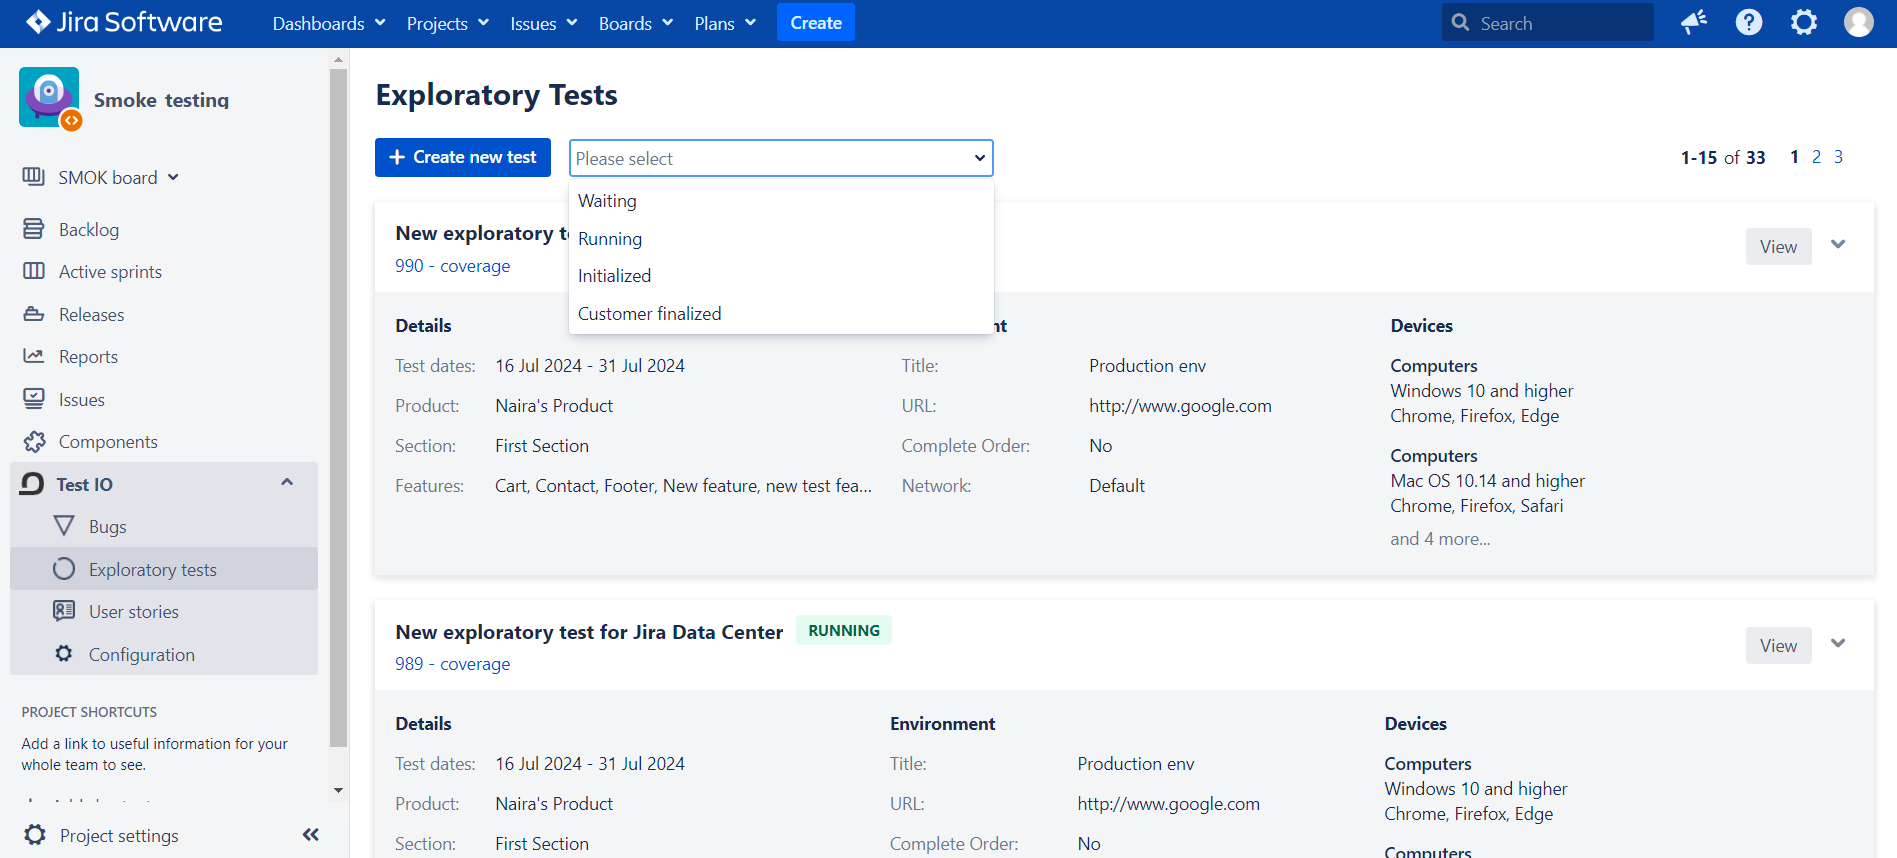
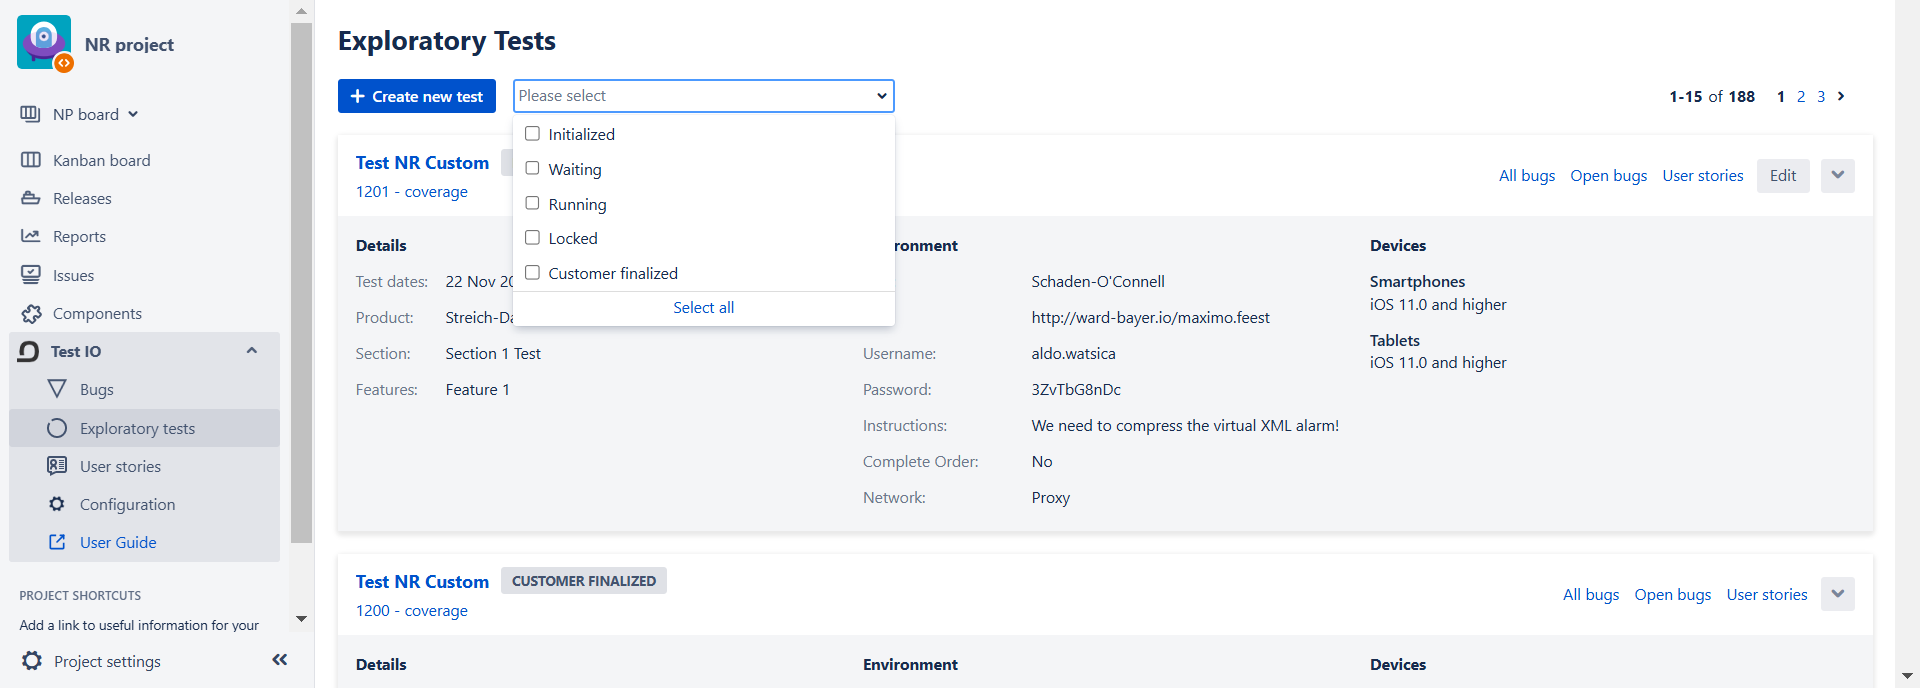
Changes on Test Bug Types page

diff --git a/src/pages/docs/jira_server/test_bug_types.md b/src/pages/docs/jira_server/test_bug_types.md
@@ -5,7 +5,7 @@ description: Learn about Test IO exploratory tests and bug types.
 
 ## Exploratory Tests in Jira Plugin
 
-Test IO exploratory tests, whether created on the Jira platform or the Test IO platform, can be seamlessly viewed through the Jira Data Center (Server) Plugin. This integration allows users to access and monitor tests with various statuses, including **Waiting, Running, Initialized** and **Customer Finalized**, directly from Jira.
+Test IO exploratory tests, whether created on the Jira platform or the Test IO platform, can be seamlessly viewed through the Jira Data Center (Server) Plugin. This integration allows users to access and monitor tests with various statuses, including **Waiting, Running, Initialized, Locked** and **Customer Finalized**, directly from Jira.
 
 ### Comprehensive Test Details
 
@@ -33,9 +33,17 @@ This detailed view enables efficient tracking of the progress and status of expl
   - Click on the Test Cycle ID under the Test Title to navigate to the Test IO Platform for a detailed preview.
     {% screenshot src="/assets/jira_server/exploratory_2.png" caption="Test Cycle ID for navigation to Test IO Platform" /%}
 
-  - Click on the **“View”** button at the top right corner of the test card to navigate to a dedicated page where you can see all the details of the test directly within Jira.
+  - Click on the **“Test Title”** button at the top left corner of the test card to navigate to a dedicated page where you can see all the details of the test directly within Jira.
 
     {% screenshot src="/assets/jira_server/exploratory_3.png" caption="View Test details in Jira" /%}
+
+  - Click on the new **“All Bugs”** button on Exploratory test card to navigate to the All Bugs page where "Test ID" filter is prefilled with the selected Test IO Test cycle ID.
+
+  - Click on the new **“Open Bugs”** button on Exploratory test card to navigate to the Bug triage (Received Bugs) page where "Test cycle" filter is prefilled with the selected Test IO Test cycle details.
+
+  - Click on the new **“User Stories”** button on Exploratory test card to navigate to the User Stories page where the page is displayed in Test preview, and "Test cycle" filter is prefilled with the selected Test IO Test cycle details.
+
+    {% screenshot src="/assets/jira_server/exploratory_4.png" caption="View Test details in Jira" /%}
 
   {% /list %}
 
@@ -78,6 +86,7 @@ Different test types include different severity levels in the test scope. To ens
 - **Usability**: Suggested improvements to existing features and functions that would make the product easier and more intuitive to use.
 - **Visual**: The user can accomplish a task, but the interface looks wrong, typically due to responsive design, CSS, HTML, or layout framework problems.
 - **Content**: Bugs related to missing data, images, or broken links.
+- **Custom**: Special Bug Reports that are set up by customer if needed.
 
 **Note**: Non-functional bugs are classified as low-severity bugs by definition.
 
